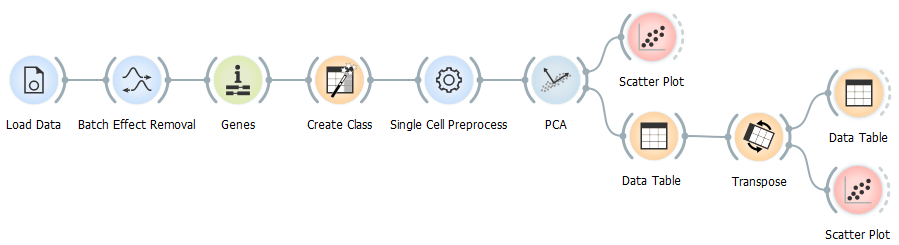
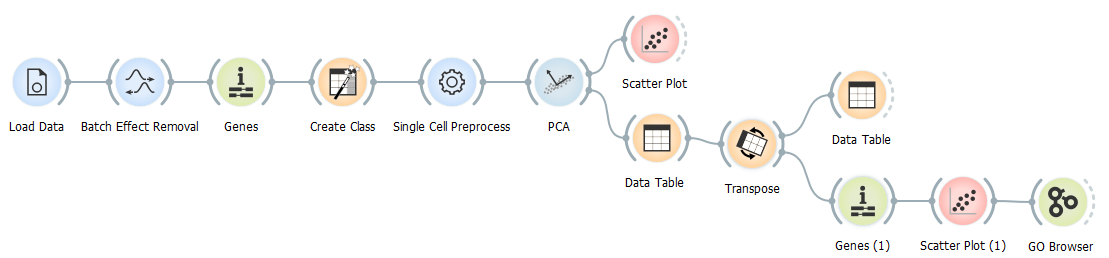
Thumb photos, finishing text

diff --git a/content/blog/osteoarthritis.md b/content/blog/osteoarthritis.md
@@ -1,64 +1,63 @@
 +++
 draft = false
 type = "blog"
-image = "/blog_img/2019-06-28/"
-thumbImage = "/blog_img/2019-06-28/"
-date = "2019-06-21"
+image = "/blog_img/2019-07-28/coverphoto.png"
+thumbImage = "/blog_img/2019-07-28/coverphoto-small.png"
+date = "2019-07-28"
 title = "Profiling Human Osteoarthritis Cartilage Chondrocytes"
 hardLineBreak = true 
-categories = ["PCA", "osteoarthritis", "scatter plot"]
+categories = ["PCA", "osteoarthritis", "scatter plot", "GO Browser"]
 joinLines = false
 author = "Iva Černoša"
-shortExcerpt = "" 
-longExcerpt = "" 
+shortExcerpt = "Identify the genes affiliated with osteoarthritis progression in the cartilage data gathered by Ji Q et al. (Annals of the Rheumatic Diseases, 2019)" 
+longExcerpt = "Identify the genes affiliated with osteoarthritis progression in the cartilage data gathered by Ji Q et al. (Annals of the Rheumatic Diseases, 2019) to shed a light on predicting clinical outcomes of the patients" 
 +++
 
-<!-- dodaj cover slike, kratek in dolg povzetek, uvod, popravi slike in datum-->
-
+Osteoarthritis is one of the most costly and common chronic conditions. A better understanding of genetical background and expression changes during osteoarthritis progression could help with diagnosis and predictions of treatment outcomes, therefore, in his short blog, we will take a look at the genes affiliated with osteoarthritis progression.
 \
 \
-{{% figure src="/blog_img/2019-06-28/workflow_partial1.PNG" width="60%" height="60%" %}}
+{{% figure src="/blog_img/2019-07-28/workflow_partial1.PNG" width="60%" height="60%" %}}
 \
 \
 Processing of the data downloaded from the GEO database (accession number: <a href= “https://www.ncbi.nlm.nih.gov/geo/query/acc.cgi?acc=GSE104782”>GSE104782</a>) will be a bit longer than usual this time.  We start by eliminating the batch effect, since we don't want the differences between the 32 individuals sampled in this study to interfere with our analysis of gene expression. After that we use Genes widget to match gene names in the data to their IDs and Create Class widget to mark cells based on the stage of osteoarthritis as microscopically diagnosed by Ji <i>et al.</i> (S0 = normal articular cartilage, S4=exposed subchondral bone). 
 \
 \
-{{% figure src="/blog_img/2019-06-28/createclass.PNG" width="60%" height="60%" %}}
+{{% figure src="/blog_img/2019-07-28/createclass.PNG" width="50%" height="50%" %}}
 \
 \
 Continuing with Single Cell Preprocess widget, we select 500 most variable genes, logarithmize and normalise the data. In the PCA widget we select 4 components, that together cover 37% of the variance. 
 \
 \
-{{% figure src="/blog_img/2019-06-28/workflow_partial2.PNG" width="70%" height="70%" %}}
+{{% figure src="/blog_img/2019-07-28/workflow_partial2.PNG" width="70%" height="70%" %}}
 \
 \
 Scatter Plot widget helps us identify the PC4 as the principal component with the strongest disease-stage progression. 
 \
 \
-{{% figure src="/blog_img/2019-06-28/PCAplot.png" width="95%" height="95%" %}}
+{{% figure src="/blog_img/2019-07-28/PCAplot.png" width="95%" height="95%" %}}
 \
 \
 This means we can now use PC4 scoring to determine genes associated with osteoarthritis progression. Export components from PCA widget to Data Table widget. If you open the table, you will notice that genes are displayed in rows and principal components in columns. If we want to order genes by ascending or descending PC4 score, we need principal components in rows. We can simply achieve this by using the Transpose widget. Now we can order genes by PC4 scores by clicking the PC4 column.  
 \
 \
-{{% figure src="/blog_img/2019-06-28/workflow_partial3.PNG" width="85%" height="85%" %}}
+{{% figure src="/blog_img/2019-07-28/workflow_partial3.PNG" width="85%" height="85%" %}}
 \
 \
-We notice that  genes with negative correlation for PC4 are mainly involved in extracellular matrix organisation and collagen metabolism (<i>PTGES</i>, <i>NPR3</i>, <i>ANGPTL1</i>, <i>POSTN</i>) and those with positive correlation (<i>IL1B</i>, <i>CHRDL2</i>, <i>CCl3</i>, <i>CXCL3</i>) in skeletal system development and cellular responses to stress.
-\
-\
-{{% figure src="/blog_img/2019-06-28/workflow_full.PNG" width="95%" height="95%" %}}
-\
-\
+We can now take a look at genes with negative correlation for PC4 (<i>PTGES</i>, <i>NPR3</i>, <i>ANGPTL1</i>, <i>POSTN</i>) and those with positive correlation (<i>IL1B</i>, <i>CHRDL2</i>, <i>CCl3</i>, <i>CXCL3</i>) and determine their biological role using GO Browser widget.
 
+Since PCA widget overruns the gene annotations in our data, we have to run it trough Genes widget again, than display it with the Scatter Plot widget, manual select positively or negatively corelated genes on the plot and use it as an input for the GO Browser. 
 \
 \
-{{% figure src="/blog_img/2019-06-28/PCgenes.png" width="95%" height="95%" %}}
+{{% figure src="/blog_img/2019-07-28/workflow_full.PNG" width="95%" height="95%" %}}
 \
 \
-
-
-<!--dokončaj besedilo, dodaj zaključek-->
+Genes with positive correlation for PC4, as displayed on the image bellow, are mainly involved in skeletal system development (ossification) and cellular responses to stress (defense response, innate immune response) suggesting the early changes that occur during osteoarthritis pathogenesis and those with negative correlation for PC4 are mainly involved in extracellular matrix organisation (tissue development, animal organ morphogenesis) and collagen metabolism (skeletal system development, odontogenesis). This makes sense since metabolic pathways switch towards glycolysis during osteoarthritis progression and in doing so contribute to impaired extracellular matrix synthesis and anabolic processes. 
+\
+\
+{{% figure src="/blog_img/2019-07-28/positivepathways.png" width="95%" height="95%" %}}
+\
+\
+Now you see, just how quick and easy identifying, annotating and explaining the genes affiliated with a certain trait (osteoarthritis progression) is in scOrange.
 
 *References* 
 \
